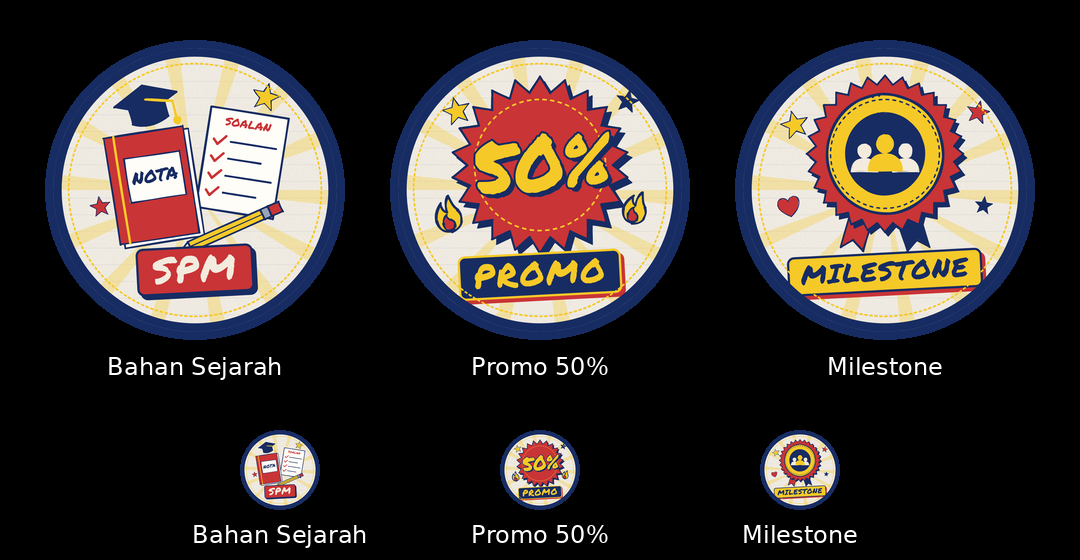
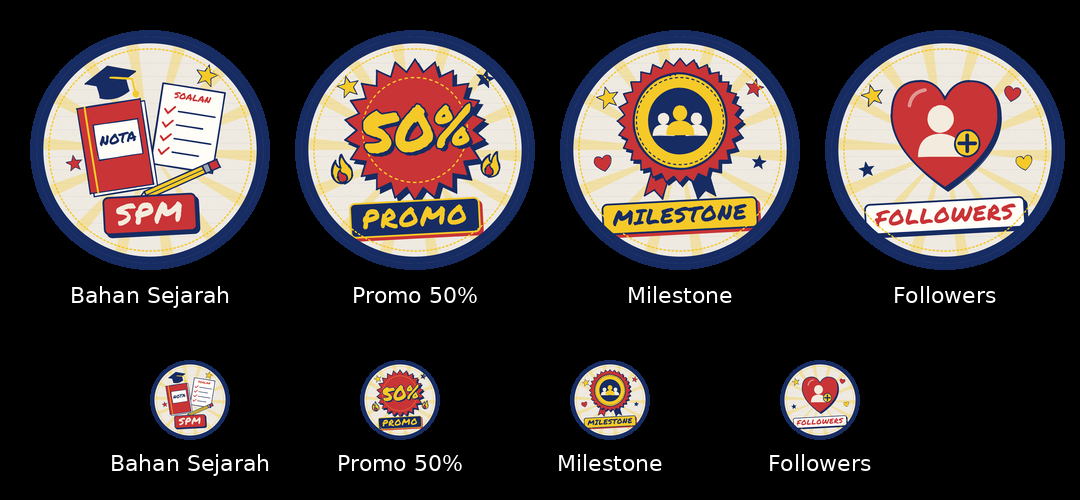
Add 'Followers' TikTok Highlight cover (thank-you to followers)
Heart with a follow icon and cream FOLLOWERS label, matching the other
Highlight covers; set preview updated to all four.

Claude-Session: https://claude.ai/code/session_01J6XTmEEfaGyASqYC8kTvFV

diff --git a/engine/poster_hl_followers.html b/engine/poster_hl_followers.html
@@ -1,0 +1,66 @@
+<!doctype html>
+<html lang="ms">
+<head>
+<meta charset="utf-8">
+<title>Titik Sejarah Highlight Followers</title>
+<style>
+@font-face{font-family:'Marker';src:url(fonts/PermanentMarker.woff2) format('woff2')}
+html,body{margin:0;width:1080px;height:1080px;overflow:hidden;background:#172C63}
+/* Same frame as poster_hl_bahan.html / poster_hl_promo50.html so the Highlight covers match */
+#c{position:relative;width:1080px;height:1080px;overflow:hidden;background:#172C63}
+.disc{position:absolute;left:30px;top:30px;width:1020px;height:1020px;border-radius:50%;overflow:hidden;background:#F3EBDD url(paper.jpg)}
+.disc::before{content:'';position:absolute;inset:0;background:repeating-linear-gradient(to bottom,transparent 0 58px,rgba(23,44,99,.08) 58px 60px)}
+.abs{position:absolute}
+.abs svg{display:block;width:100%;height:auto;overflow:visible}
+.ring{left:30px;top:30px;width:1020px;height:1020px;box-sizing:border-box;border-radius:50%;border:30px solid #172C63}
+.ring2{left:82px;top:82px;width:916px;height:916px;box-sizing:border-box;border-radius:50%;border:6px dashed #F5C928}
+.lbl{left:0;width:1080px;top:765px;text-align:center}
+.lbl span{display:inline-block;background:#FFFDF7;color:#C93436;font-family:'Marker';font-size:96px;line-height:1;padding:8px 40px 22px;border-radius:26px;border:8px solid #172C63;box-shadow:12px 14px 0 #172C63;transform:rotate(-3deg);letter-spacing:4px}
+</style>
+<script src="../node_modules/roughjs/bundled/rough.js"></script>
+</head>
+<body>
+<div id="c"><div class="disc" id="disc"></div></div>
+<script type="module">
+import { D, R, C, setSeed } from './doodles.js';
+const c = document.getElementById('c'), disc = document.getElementById('disc');
+const add = (html, css, cls = 'abs', parent = c) => { const d = document.createElement('div'); d.className = cls; d.style.cssText = css; d.innerHTML = html; parent.appendChild(d); return d; };
+const svg = (w, h, body) => `<svg viewBox="0 0 ${w} ${h}" xmlns="http://www.w3.org/2000/svg">${body}</svg>`;
+await document.fonts.ready;
+setSeed(4321);
+
+// 1) Gold sunburst inside the disc (centred)
+add(D.burst(), 'left:-490px;top:-490px;width:2000px', 'abs', disc);
+
+// 2) Big red heart (thank you, followers) with a "follow" icon: person + gold plus badge
+{
+  let h = '';
+  const heart = 'M300 560 Q60 400 60 230 Q60 80 190 80 Q262 80 300 160 Q338 80 410 80 Q540 80 540 230 Q540 400 300 560 Z';
+  h += R.path(heart.replace(/(\d+) (\d+)/g, (m, x, y) => `${+x + 14} ${+y + 16}`), { fill: C.navy, stroke: C.navy, roughness: 0.6 });
+  h += R.path(heart, { fill: C.red, strokeWidth: 8, roughness: 0.8 });
+  h += `<path d="M140 190 Q150 130 210 120" stroke="#F3EBDD" stroke-width="16" fill="none" stroke-linecap="round" opacity=".55"/>`;
+  // person (cream)
+  h += R.circle(280, 250, 120, { fill: '#F3EBDD', stroke: '#F3EBDD', strokeWidth: 2 });
+  h += R.path('M180 420 Q182 320 280 320 Q378 320 380 420 Z', { fill: '#F3EBDD', stroke: '#F3EBDD', strokeWidth: 2 });
+  // plus badge (gold)
+  h += R.circle(400, 360, 116, { fill: C.gold, stroke: C.navy, strokeWidth: 7 });
+  h += R.line(400, 324, 400, 396, { stroke: C.navy, strokeWidth: 16, roughness: 0.4 }) + R.line(364, 360, 436, 360, { stroke: C.navy, strokeWidth: 16, roughness: 0.4 });
+  add(svg(600, 600, h), 'left:240px;top:150px;width:600px');
+}
+
+// 3) Sparkle stars + small hearts
+add(D.star(C.gold), 'left:160px;top:240px;width:110px;transform:rotate(-14deg)');
+add(D.heart(C.red), 'left:800px;top:250px;width:84px;transform:rotate(12deg)');
+add(D.star(C.navy), 'left:150px;top:590px;width:76px;transform:rotate(-10deg)');
+add(D.heart(C.gold), 'left:855px;top:560px;width:84px;transform:rotate(-8deg)');
+
+// 4) Label + rings
+add('<span>FOLLOWERS</span>', '', 'abs lbl');
+add('', '', 'abs ring2');
+add('', '', 'abs ring');
+
+await new Promise((r) => requestAnimationFrame(() => requestAnimationFrame(r)));
+window.__done = true;
+</script>
+</body>
+</html>
